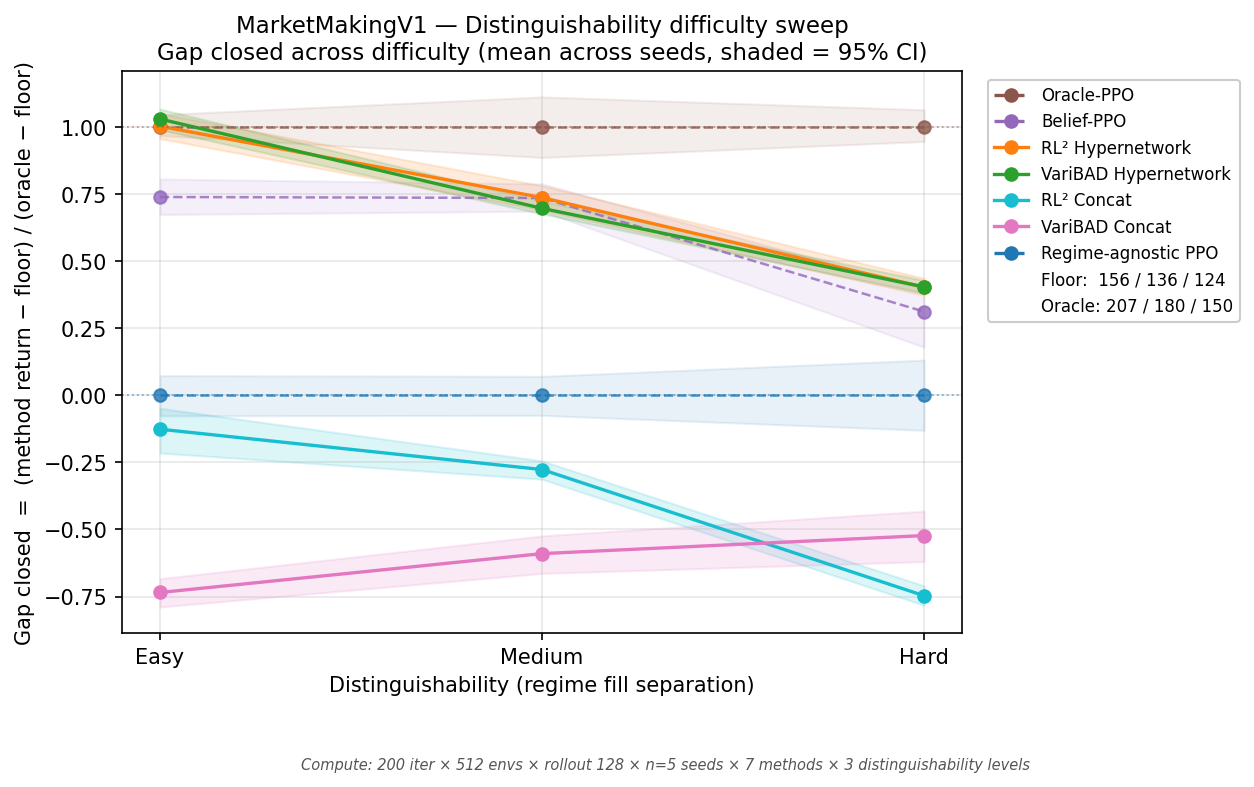
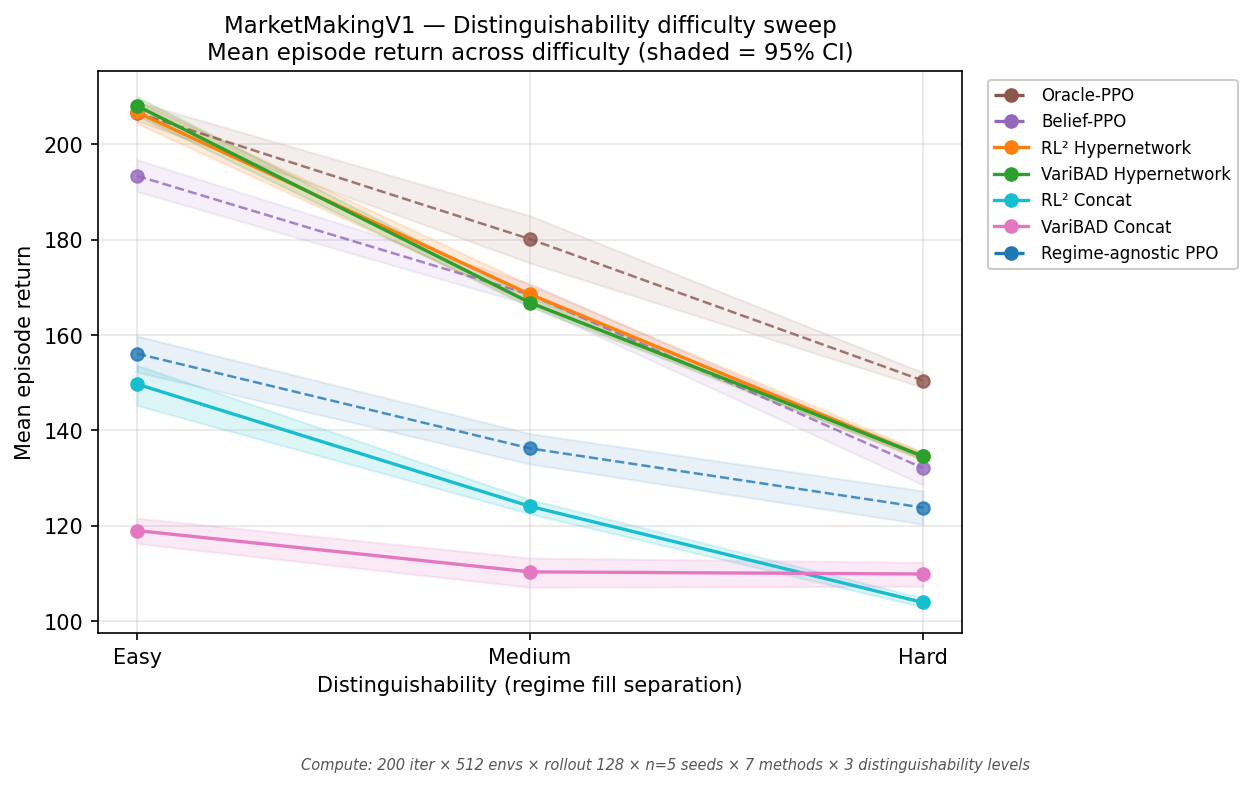
M6 sweep: switch single panel from gap_closed to absolute returns
The absolute-return view is more intuitive for a thesis figure — readers
see what each method actually achieves at each difficulty rather than a
normalised ratio. gap_closed numbers still live in the findings table
and remain the test statistic for the RQ3 hypothesis tests; the chart
just doesn't lead with them.

Both axes now plot mean episode return on a single panel: 7 method
lines (3 reference dashed, 4 meta-RL solid), shaded 95% CI bands. Y
ranges naturally — persistence ~108-184, distinguishability ~104-208.

diff --git a/plotting/m6_plots.py b/plotting/m6_plots.py
@@ -187,15 +187,14 @@ def _aligned_curve(entry: dict[str, Any], key_prefix: str) -> tuple[np.ndarray, 
 
 
 def plot_difficulty_sweep(axis: str, out_path: Path) -> bool:
-    """Single-panel sweep figure: gap_closed across difficulty levels.
+    """Single-panel sweep figure: absolute mean returns across difficulty.
 
-    The original two-panel layout (absolute returns + gap_closed) ran into
-    visual redundancy on the distinguishability axis where both panels
-    showed similar monotonic declines. gap_closed is the canonical RQ3
-    metric (it normalises method return by the optimality gap and ties
-    directly to the pre-registered hypotheses), so the single-panel form
-    keeps that and folds the absolute floor / oracle values into the
-    legend so context isn't lost.
+    Earlier two-panel layout (absolute + gap_closed) was simplified to a
+    single panel after the gap_closed panel duplicated the absolute one
+    on the distinguishability axis. The absolute view is the more
+    intuitive read for a thesis figure (what is each method actually
+    returning at each difficulty?); gap_closed numbers live in the
+    findings table and are the test statistic for RQ3 hypothesis tests.
     """
     stats_path = RESULTS_ROOT / "milestones" / "M6" / "stats_M6_sweep.json"
     if not stats_path.exists():
@@ -214,14 +213,14 @@ def plot_difficulty_sweep(axis: str, out_path: Path) -> bool:
     fig, ax = plt.subplots(figsize=(9.0, 5.2))
     x = np.arange(len(_LEVELS))
 
-    # Plot every method (refs dashed, meta-RL solid). Belief-PPO is a
-    # reference benchmark on this panel — dashed like regime-agnostic
-    # and Oracle.
+    # Plot every method (refs dashed, meta-RL solid). Belief-PPO joins
+    # regime-agnostic and Oracle as a dashed reference — it's the
+    # analytical-posterior upper bound on regime-only methods.
     for method in _ABS_METHOD_ORDER:
         entry = by_method.get(method)
         if entry is None:
             continue
-        means, los, his = _aligned_curve(entry, "gc")
+        means, los, his = _aligned_curve(entry, "abs")
         color = _METHOD_COLORS[method]
         is_ref = method in _REFERENCE_METHODS
         linestyle = "--" if is_ref else "-"
@@ -234,29 +233,20 @@ def plot_difficulty_sweep(axis: str, out_path: Path) -> bool:
             ax.fill_between(x, los, his, color=color,
                             alpha=0.15 if not is_ref else 0.10)
 
-    # Constant-by-construction reference dashes for the 0-1 envelope.
-    # regime_agnostic and oracle method lines already sit on these,
-    # but the dashes give the chart a clear "[floor — oracle]" frame.
-    ax.axhline(0.0, color=_METHOD_COLORS["regime_agnostic_ppo"],
-               linestyle=":", linewidth=0.9, alpha=0.5)
-    ax.axhline(1.0, color=_METHOD_COLORS["oracle_ppo"],
-               linestyle=":", linewidth=0.9, alpha=0.5)
-
     ax.set_xticks(x)
     ax.set_xticklabels([_LEVEL_LABELS[lv] for lv in _LEVELS])
     ax.set_xlabel(_AXIS_LABELS.get(axis, axis))
-    ax.set_ylabel(
-        "Gap closed  =  (method return − floor) / (oracle − floor)"
-    )
+    ax.set_ylabel("Mean episode return")
 
     axis_pretty = axis.capitalize()
     ax.set_title(
         f"MarketMakingV1 — {axis_pretty} difficulty sweep\n"
-        "Gap closed across difficulty (mean across seeds, shaded = 95% CI)"
+        "Mean episode return across difficulty (shaded = 95% CI)"
     )
 
-    # Build legend with absolute floor / oracle values per level so the
-    # absolute scale isn't lost when we drop the absolute panel.
+    # Legend lists every method that appears on the chart. Reference
+    # methods (regime-agnostic, Belief, Oracle) are dashed; meta-RL
+    # methods are solid.
     legend_handles: list[Any] = []
     for method in _ABS_METHOD_ORDER:
         if method not in by_method:
@@ -269,23 +259,6 @@ def plot_difficulty_sweep(axis: str, out_path: Path) -> bool:
             linewidth=1.6, marker="o",
             label=_METHOD_LABELS[method],
         ))
-    floor_per_level = []
-    oracle_per_level = []
-    for lv in _LEVELS:
-        cells = axis_results.get(lv, {})
-        f = cells.get("regime_agnostic_ppo", {}).get("final_return_mean")
-        o = cells.get("oracle_ppo", {}).get("final_return_mean")
-        floor_per_level.append(f"{f:.0f}" if f is not None else "?")
-        oracle_per_level.append(f"{o:.0f}" if o is not None else "?")
-    legend_handles.append(Line2D(
-        [0], [0], color="white",
-        label=f"Floor:  {' / '.join(floor_per_level)}",
-    ))
-    legend_handles.append(Line2D(
-        [0], [0], color="white",
-        label=f"Oracle: {' / '.join(oracle_per_level)}",
-    ))
-
     ax.legend(
         handles=legend_handles,
         loc="upper left", bbox_to_anchor=(1.02, 1.0),
